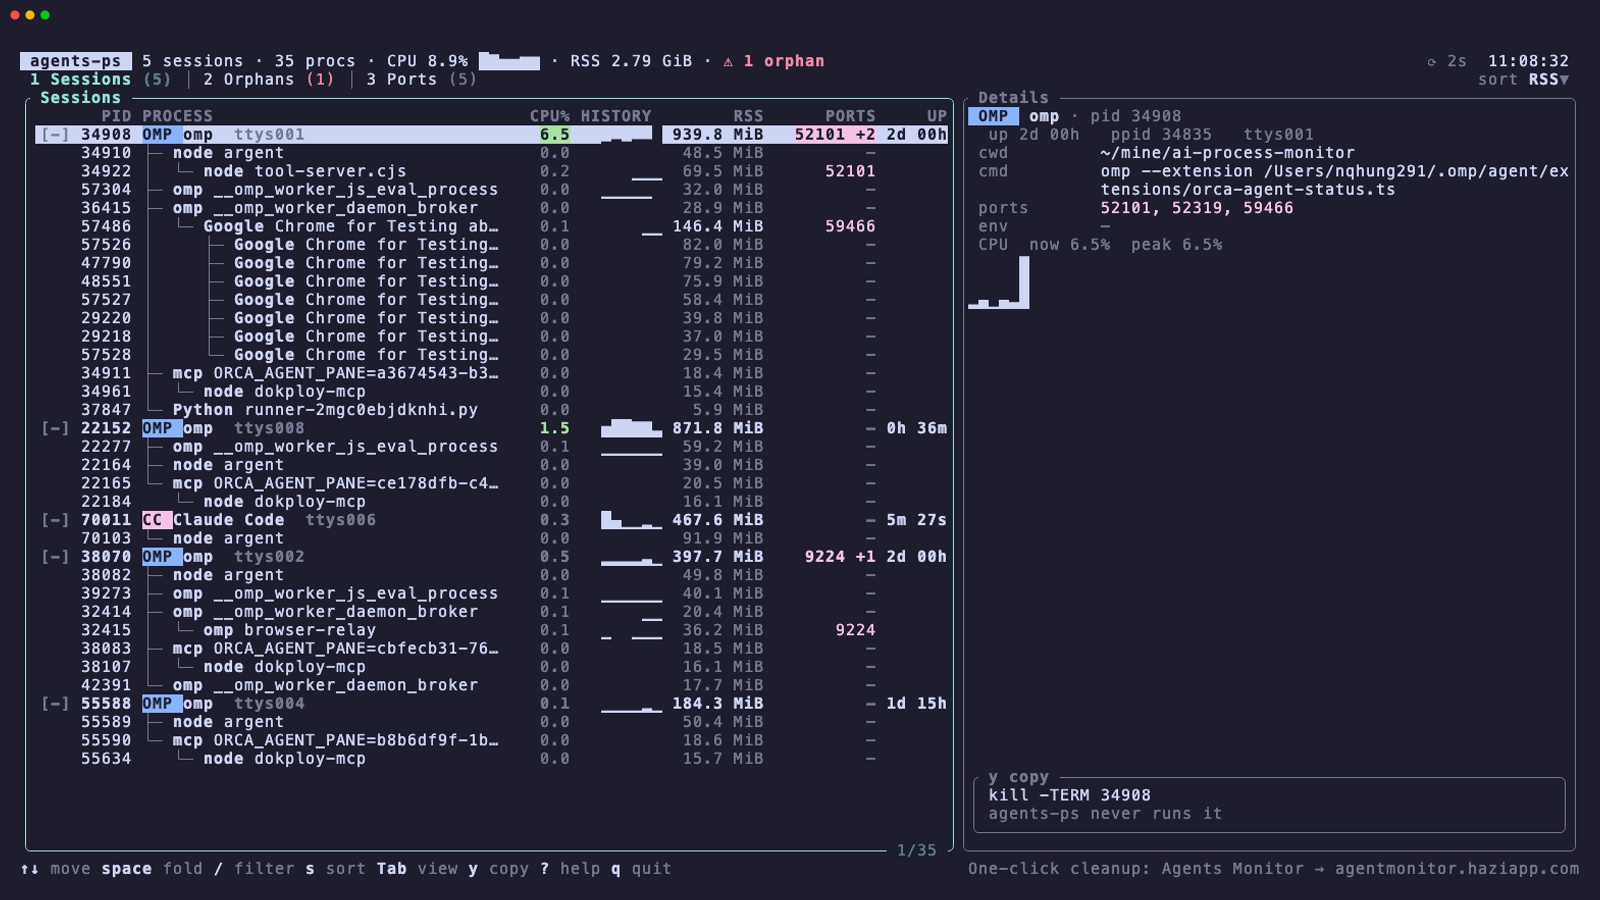
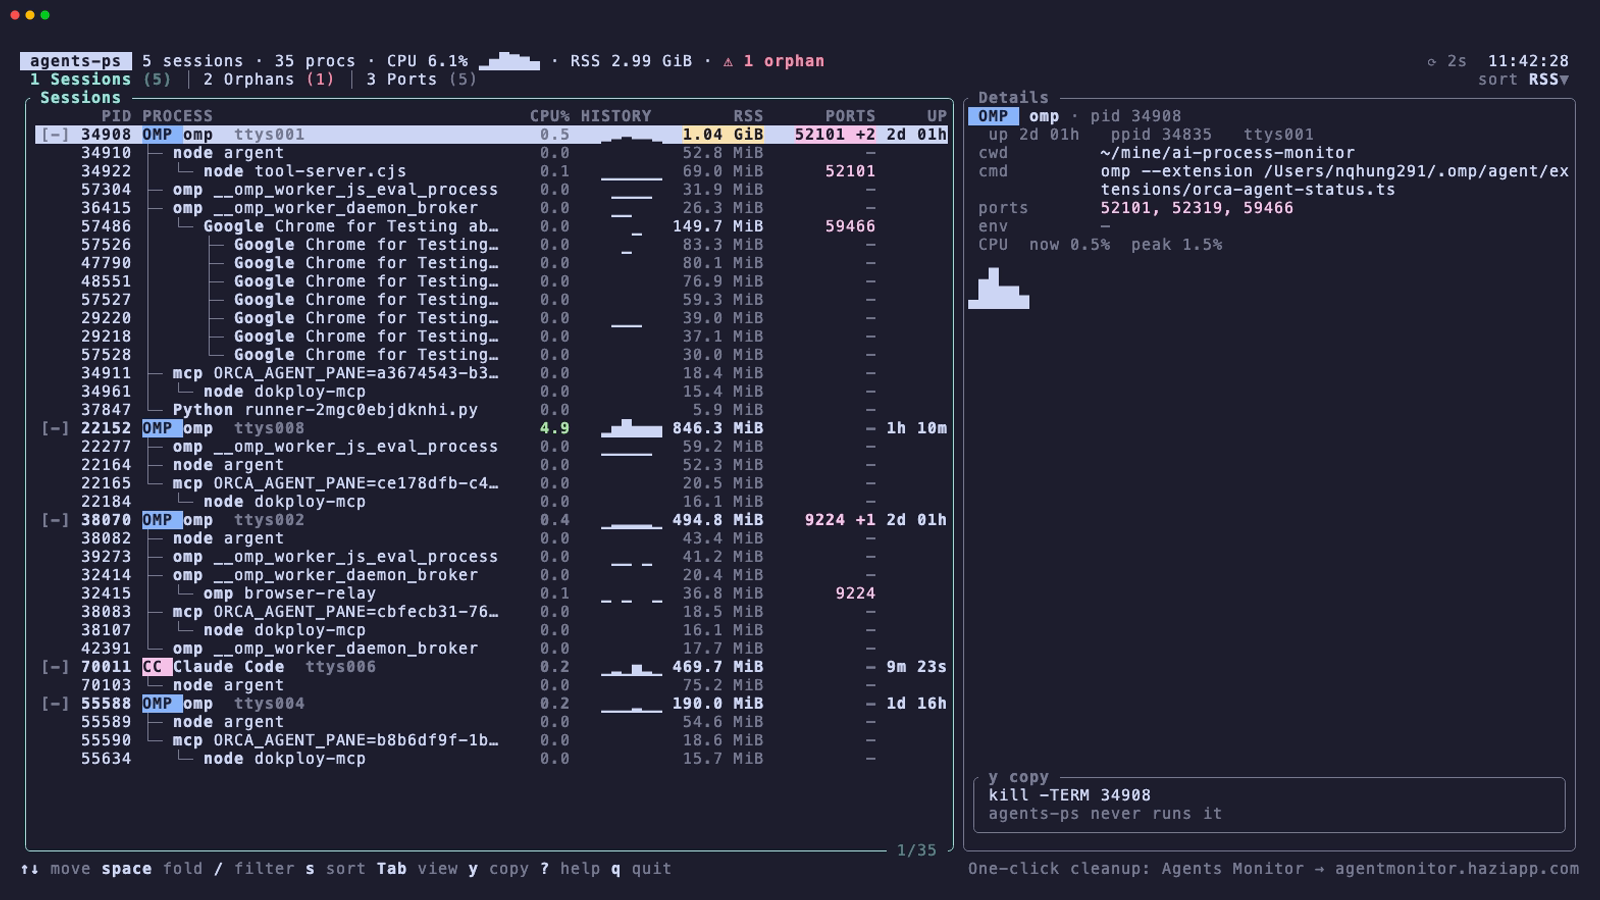
agents-ps 0.2.0: bare agents-ps opens the interactive view on a terminal

diff --git a/src/cli.rs b/src/cli.rs
@@ -10,10 +10,11 @@ USAGE:
     agents-ps [COMMAND] [OPTIONS]
 
 COMMANDS:
-    (none)     live agent sessions, their process trees and listening ports
+    (none)     interactive full-screen view in a terminal (sessions, orphans,
+               ports); prints the sessions report when piped or with --json
+    sessions   live agent sessions, their process trees and listening ports
     orphans    processes left behind by agents that already exited
     ports      listening ports owned by agent trees or orphans
-    top        interactive full-screen view (sessions, orphans, ports); read-only
 
 OPTIONS:
     --json       machine-readable output (stable schema, no hint line)
@@ -27,11 +28,12 @@ Exit code 0 on success, 2 on a usage error.
 
 #[derive(Clone, Copy, Debug, Default, PartialEq, Eq)]
 pub enum Command {
+    /// No command given: the interactive view on a terminal, else `Sessions`.
     #[default]
+    Auto,
     Sessions,
     Orphans,
     Ports,
-    Top,
 }
 
 #[derive(Clone, Copy, Debug, Default)]
@@ -78,11 +80,10 @@ where
                 out.command = match value.to_string_lossy().as_ref() {
                     "orphans" => Command::Orphans,
                     "ports" => Command::Ports,
-                    "top" | "tui" => Command::Top,
                     "sessions" | "status" => Command::Sessions,
                     other => {
                         return Err(UsageError(format!(
-                            "unknown command: {other} (expected orphans, ports or top)"
+                            "unknown command: {other} (expected sessions, orphans or ports)"
                         )));
                     }
                 };
@@ -92,9 +93,6 @@ where
             }
         }
     }
-    if out.json && out.command == Command::Top {
-        return Err(UsageError("--json is not supported by top".to_string()));
-    }
     Ok(out)
 }
 
@@ -103,10 +101,14 @@ mod tests {
     use super::*;
 
     #[test]
-    fn default_is_sessions() {
+    fn default_is_auto() {
         let args = parse::<[&str; 0]>([]).unwrap();
-        assert_eq!(args.command, Command::Sessions);
+        assert_eq!(args.command, Command::Auto);
         assert!(!args.json && !args.no_hint && !args.help);
+        assert_eq!(
+            parse(["agents-ps", "sessions"]).unwrap().command,
+            Command::Sessions
+        );
     }
 
     #[test]
@@ -126,17 +128,6 @@ mod tests {
         assert!(parse(["agents-ps", "-h"]).unwrap().help);
         assert!(parse(["agents-ps", "--version"]).unwrap().version);
         assert!(parse(["agents-ps", "-V"]).unwrap().version);
-    }
-
-    #[test]
-    fn top_is_an_interactive_command() {
-        assert_eq!(parse(["agents-ps", "top"]).unwrap().command, Command::Top);
-        assert_eq!(parse(["agents-ps", "tui"]).unwrap().command, Command::Top);
-
-        let err = parse(["agents-ps", "top", "--json"]).unwrap_err();
-        assert_eq!(err.0, "--json is not supported by top");
-        let err = parse(["agents-ps", "--json", "tui"]).unwrap_err();
-        assert_eq!(err.0, "--json is not supported by top");
     }
 
     #[test]

diff --git a/src/main.rs b/src/main.rs
@@ -40,8 +40,10 @@ fn run() -> i32 {
         return 0;
     }
 
-    if args.command == Command::Top {
-        return run_top(&args);
+    // Bare `agents-ps` on a terminal is the interactive view; piped, redirected
+    // or `--json`, it stays the plain sessions report so scripts keep working.
+    if args.command == Command::Auto && !args.json && interactive_terminal() {
+        return run_tui(&args);
     }
 
     match collect(&args) {
@@ -58,11 +60,11 @@ fn run() -> i32 {
 
 /// The interactive view needs a real terminal on both ends: it reads keys from
 /// stdin and paints on stdout.
-fn run_top(args: &Args) -> i32 {
-    if !std::io::stdin().is_terminal() || !std::io::stdout().is_terminal() {
-        eprintln!("agents-ps: top needs an interactive terminal");
-        return 2;
-    }
+fn interactive_terminal() -> bool {
+    std::io::stdin().is_terminal() && std::io::stdout().is_terminal()
+}
+
+fn run_tui(args: &Args) -> i32 {
     let opts = tui::Options {
         no_hint: args.no_hint,
         color: std::env::var_os("NO_COLOR").is_none(),
@@ -88,7 +90,7 @@ fn collect(args: &Args) -> Result<String, String> {
     let generated_at_unix_ms = snapshot.now_us / 1000;
 
     let text = match args.command {
-        Command::Sessions => {
+        Command::Auto | Command::Sessions => {
             if args.json {
                 return Ok(report::sessions_json(
                     &snapshot.sessions,
@@ -124,7 +126,6 @@ fn collect(args: &Args) -> Result<String, String> {
             }
             report::ports_text(&snapshot.ports, style)
         }
-        Command::Top => unreachable!("top is dispatched before sampling"),
     };
 
     Ok(with_hint(text, args, style))

diff --git a/tests/cli.rs b/tests/cli.rs
@@ -30,9 +30,10 @@ fn help_lists_every_command() {
     assert!(out.status.success());
     let text = stdout_of(&out);
     for needle in [
+        "sessions",
         "orphans",
         "ports",
-        "top",
+        "interactive",
         "--json",
         "--no-hint",
         "never kills",
@@ -42,15 +43,16 @@ fn help_lists_every_command() {
 }
 
 #[test]
-fn top_without_a_terminal_exits_2() {
-    // The harness pipes stdout, so `top` must refuse rather than paint escape codes.
-    let out = run(&["top"]);
-    assert_eq!(out.status.code(), Some(2));
-    let stderr = String::from_utf8(out.stderr).expect("utf-8 stderr");
+fn bare_command_on_a_pipe_prints_the_plain_report() {
+    // The harness pipes stdout: no full-screen view, no escape codes, exit 0.
+    let out = run(&[]);
+    assert!(out.status.success());
+    let text = stdout_of(&out);
     assert!(
-        stderr.contains("top needs an interactive terminal"),
-        "unexpected stderr: {stderr:?}"
+        text.starts_with("agents-ps  "),
+        "unexpected stdout: {text:?}"
     );
+    assert!(!text.contains('\x1b'), "escape codes on a pipe: {text:?}");
 }
 
 #[test]

diff --git a/src/tui/app.rs b/src/tui/app.rs
@@ -1,4 +1,4 @@
-//! State, key handling, and the pure row logic behind `agents-ps top`.
+//! State, key handling, and the pure row logic behind the interactive view.
 //!
 //! Everything in this module is read-only. The only side effects are sending
 //! commands to the sampler thread and writing the copy line to `pbcopy`.

diff --git a/src/tui/ui.rs b/src/tui/ui.rs
@@ -1,4 +1,4 @@
-//! Rendering for `agents-ps top`: one header, three tabs, three tables, a
+//! Rendering for the interactive view: one header, three tabs, three tables, a
 //! detail pane, the footer and the help popup.
 //!
 //! Colours come from the 16 ANSI names; a background is never set, and the

diff --git a/src/tui/mod.rs b/src/tui/mod.rs
@@ -1,4 +1,4 @@
-//! Interactive full-screen view (`agents-ps top`).
+//! Interactive full-screen view (bare `agents-ps` on a terminal).
 //!
 //! Read-only by construction: this module only reads process data and shows or
 //! copies `kill -TERM <pid>` lines. Nothing here sends a signal.

diff --git a/README.md b/README.md
@@ -8,14 +8,14 @@ per process. It also lists the processes those agents left behind after they exi
 and the ports they still hold. It reads the process table and prints; it never kills,
 signals, writes or changes anything.
 
-## Interactive view: `agents-ps top`
+## Interactive view: just run `agents-ps`
 
-`agents-ps top` shows the same snapshot as a full-screen, keyboard-driven explorer:
+Run `agents-ps` in a terminal and it opens a full-screen, keyboard-driven explorer:
 agent sessions as live process trees on the left, the selected process on the right,
 and Orphans and Ports views on `Tab`. It is read-only — there is no kill key; `y`
 copies `kill -TERM <pid>` to the clipboard and leaves running it to you.
 
-![agents-ps top: agent sessions as live process trees](docs/top.png)
+![agents-ps: agent sessions as live process trees](docs/top.png)
 
 ## Install
 
@@ -41,7 +41,7 @@ next to it, and put `agents-ps` on your `PATH`.
 
 Requires macOS. There is no Linux or Windows build.
 
-## `agents-ps top` keys
+## Interactive view keys
 
 | Key | Action |
 | --- | --- |
@@ -89,10 +89,13 @@ What the app adds on top of `agents-ps`:
 | Open a dev server from its port | — | ✓ one click |
 | Always on | — | ✓ menu-bar app, no command to run |
 
-## One-shot output
+## Plain-text output
+
+Piped, redirected or with `--json`, `agents-ps` prints a plain report instead of
+opening the interactive view. `agents-ps sessions` prints that report on a terminal too.
 
 ```
-$ agents-ps
+$ agents-ps sessions
 agents-ps  4 sessions · 34 processes · 14.5% CPU · 1.98 GiB · sampled in 341 ms
 
 omp  pid 34908 · ttys001 · up 1d 22h · 16 processes · 0.2% CPU · 772.6 MiB
@@ -149,13 +152,13 @@ agents-ps ports  5 listening ports owned by agent processes
 
 | Command | What it prints |
 | --- | --- |
-| `agents-ps` | one block per agent session: agent, pid, uptime, its process tree with pid, short command, CPU, RSS, listening ports, and per-session totals. Sorted by total RSS, largest first. |
+| `agents-ps` | in a terminal: the interactive view (session trees, orphans and ports with folding, sorting, filtering and a details pane; read-only). Piped, redirected or with `--json`: the same report as `agents-ps sessions`. |
+| `agents-ps sessions` | one block per agent session: agent, pid, uptime, its process tree with pid, short command, CPU, RSS, listening ports, and per-session totals. Sorted by total RSS, largest first. |
 | `agents-ps orphans` | processes left behind by agents that already exited: pid, command, age, RSS, ports, the agent that likely spawned it, the evidence, and a copy-pasteable `kill -TERM` line. |
 | `agents-ps ports` | listening TCP ports owned by agent trees or orphans, one row per port. |
-| `agents-ps top` (alias `tui`) | interactive full-screen view of the same data: session trees, orphans and ports with folding, sorting, filtering and a details pane. Read-only. Needs a terminal; `--json` is not supported. |
 
 Flags: `--json` for machine-readable output, `--no-hint` to drop the one line about
-Agents Monitor (`top` accepts `--no-hint` too, to hide its footer hint), `--version`,
+Agents Monitor (in the interactive view it hides the footer hint), `--version`,
 `--help`.
 
 `--json` is versioned and stable: `schema` is `1`, pids are integers, sizes are bytes,
